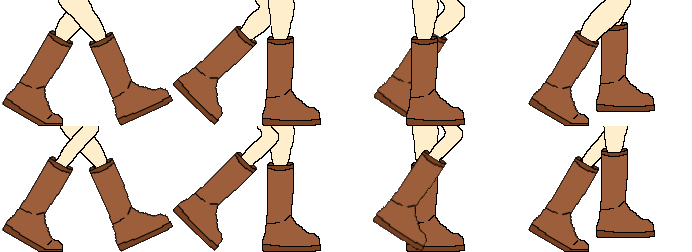
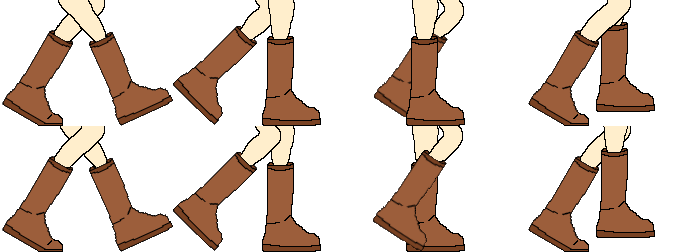
fun

diff --git a/Fun/js/Preloader2.js b/Fun/js/Preloader2.js
@@ -67,7 +67,7 @@ class Preloader extends Phaser.Scene{
         });
         this.anims.create({
             key: "boot_walk",
-            frames: this.anims.generateFrameNumbers('boots', { start: 0, end: 3 }),
+            frames: this.anims.generateFrameNumbers('boots', { start: 0, end: 7 }),
             frameRate: 4,
             repeat: -1
         });
